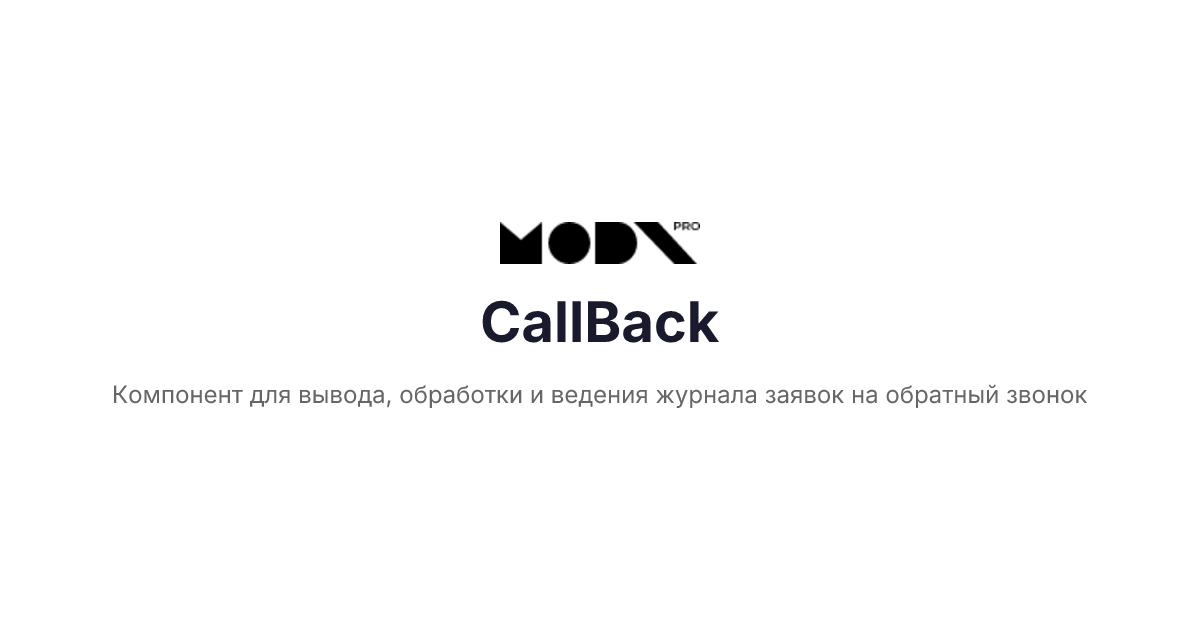
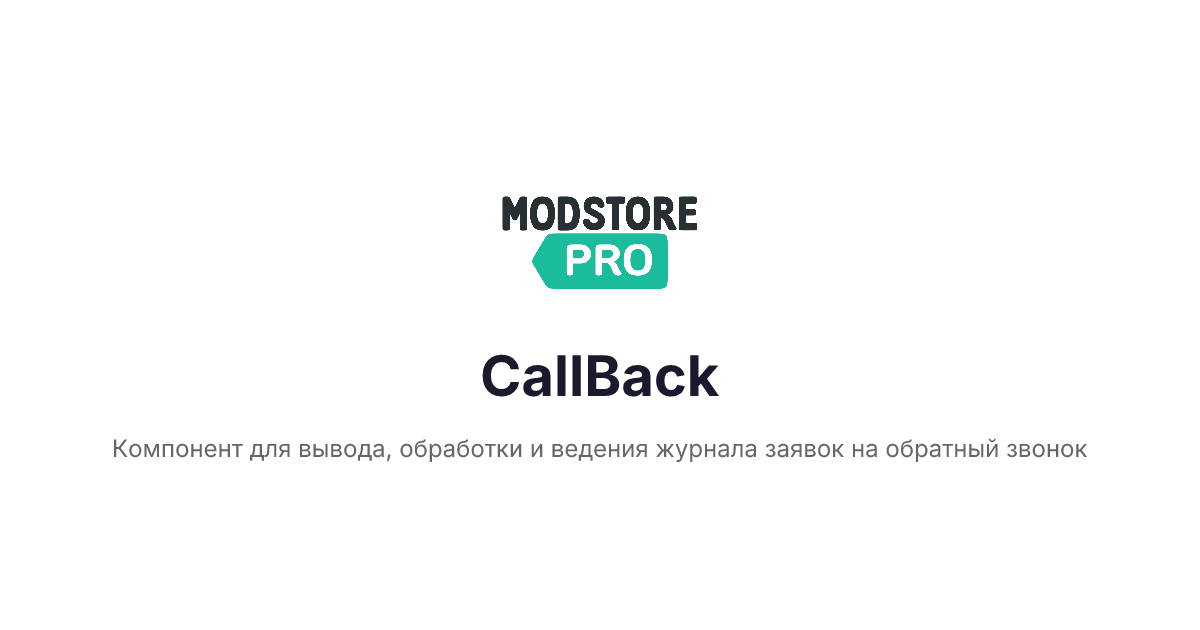
fix: обновить логотипы компонентов и добавить og-изображения

Changed region(s): [[0.0925, 0.3016, 0.8942, 0.6635], [0.0925, 0.6937, 0.925, 0.7238]]

diff --git a/docs/components/msmanagerordermap.md b/docs/components/msmanagerordermap.md
@@ -1,7 +1,7 @@
 ---
 title: msManagerOrderMap
 description: Выводит карту в панели управления заказом, во вкладке Адрес
-logo: https://modstore.pro/assets/components/extras/img/logo.png
+logo: https://modstore.pro/assets/components/extras/img/logo-share.png
 author: webinmd
 modstore: https://modstore.pro/packages/integration/msmanagerordermap
 repository: https://github.com/webinmd/msManagerOrderMap

diff --git a/docs/components/msmarketingstatuses.md b/docs/components/msmarketingstatuses.md
@@ -1,7 +1,7 @@
 ---
 title: msMarketingStatuses
 description: Компонент позволяет настроить автоматическое управление статусами заказов.
-logo: https://modstore.pro/assets/components/extras/img/logo.png
+logo: https://modstore.pro/assets/components/extras/img/logo-share.png
 author: gvozdb
 modstore: https://modstore.pro/packages/integration/msmarketingstatuses
 

diff --git a/docs/components/callback.md b/docs/components/callback.md
@@ -1,7 +1,9 @@
 ---
 title: CallBack
 description: Компонент для вывода, обработки и ведения журнала заявок на обратный звонок
+logo: https://modstore.pro/assets/components/extras/img/logo-share.png
 ---
+
 # CallBack
 
 Компонент для вывода, обработки и ведения журнала заявок на обратный звонок.

diff --git a/docs/components/msproductdiscounts/index.md b/docs/components/msproductdiscounts/index.md
@@ -1,7 +1,7 @@
 ---
 title: msProductDiscounts
 description: Создание скидок на товары с широкими возможностями настройки
-logo: https://modstore.pro/assets/components/extras/img/logo.png
+logo: https://modstore.pro/assets/components/extras/img/logo-share.png
 author: shevartv
 modstore: https://modstore.pro/packages/discounts/msproductdiscounts
 

diff --git a/docs/components/userauthhash/index.md b/docs/components/userauthhash/index.md
@@ -1,7 +1,7 @@
 ---
 title: UserAuthHash
 description: Авторизация пользователя по ссылке (хэш-коду) без ввода логина и пароля
-logo: https://modstore.pro/assets/components/extras/img/logo.png
+logo: https://modstore.pro/assets/components/extras/img/logo-share.png
 author: vgrish
 modstore: https://modstore.pro/packages/users/userauthhash
 

diff --git a/docs/en/components/msmanagerordermap.md b/docs/en/components/msmanagerordermap.md
@@ -1,7 +1,7 @@
 ---
 title: msManagerOrderMap
 description: Shows a map in the order manager, on the Address tab
-logo: https://modstore.pro/assets/components/extras/img/logo.png
+logo: https://modstore.pro/assets/components/extras/img/logo-share.png
 author: webinmd
 modstore: https://modstore.pro/packages/integration/msmanagerordermap
 repository: https://github.com/webinmd/msManagerOrderMap

diff --git a/docs/components/migxpageconfigurator/index.md b/docs/components/migxpageconfigurator/index.md
@@ -1,7 +1,7 @@
 ---
 title: MigxPageConfigurator
 description: Интеграция вёрстки и управление контентом
-logo: https://modstore.pro/assets/components/extras/img/logo.png
+logo: https://modstore.pro/assets/components/extras/img/logo-share.png
 author: shevartv
 modstore: https://modstore.pro/packages/utilities/migxpageconfigurator
 

diff --git a/docs/en/components/msproductdiscounts/index.md b/docs/en/components/msproductdiscounts/index.md
@@ -1,7 +1,7 @@
 ---
 title: msProductDiscounts
 description: Creating product discounts with extensive configuration options
-logo: https://modstore.pro/assets/components/extras/img/logo.png
+logo: https://modstore.pro/assets/components/extras/img/logo-share.png
 author: shevartv
 modstore: https://modstore.pro/packages/discounts/msproductdiscounts
 

diff --git a/docs/components/smartsessions.md b/docs/components/smartsessions.md
@@ -1,7 +1,7 @@
 ---
 title: smartSessions
 description: Расширенное управление сессиями MODX
-logo: https://modstore.pro/assets/components/extras/img/logo.png
+logo: https://modstore.pro/assets/components/extras/img/logo-share.png
 author: createit-ru
 modstore: https://modstore.pro/packages/utilities/smartsessions
 

diff --git a/docs/components/msbuynow.md b/docs/components/msbuynow.md
@@ -2,6 +2,7 @@
 title: msBuyNow
 description: Компонент для вывода виджета «Сейчас покупают» — товары, добавленные в корзину за последнее время
 dependencies: miniShop2
+logo: https://modstore.pro/assets/components/extras/img/logo-share.png
 ---
 
 # msBuyNow

diff --git a/docs/en/components/userauthhash/index.md b/docs/en/components/userauthhash/index.md
@@ -1,7 +1,7 @@
 ---
 title: UserAuthHash
 description: User login via link (hash) without entering username and password
-logo: https://modstore.pro/assets/components/extras/img/logo.png
+logo: https://modstore.pro/assets/components/extras/img/logo-share.png
 author: vgrish
 modstore: https://modstore.pro/packages/users/userauthhash
 

diff --git a/docs/en/components/migxpageconfigurator/index.md b/docs/en/components/migxpageconfigurator/index.md
@@ -1,7 +1,7 @@
 ---
 title: MigxPageConfigurator
 description: Markup integration and content management
-logo: https://modstore.pro/assets/components/extras/img/logo.png
+logo: https://modstore.pro/assets/components/extras/img/logo-share.png
 author: shevartv
 modstore: https://modstore.pro/packages/utilities/migxpageconfigurator
 
